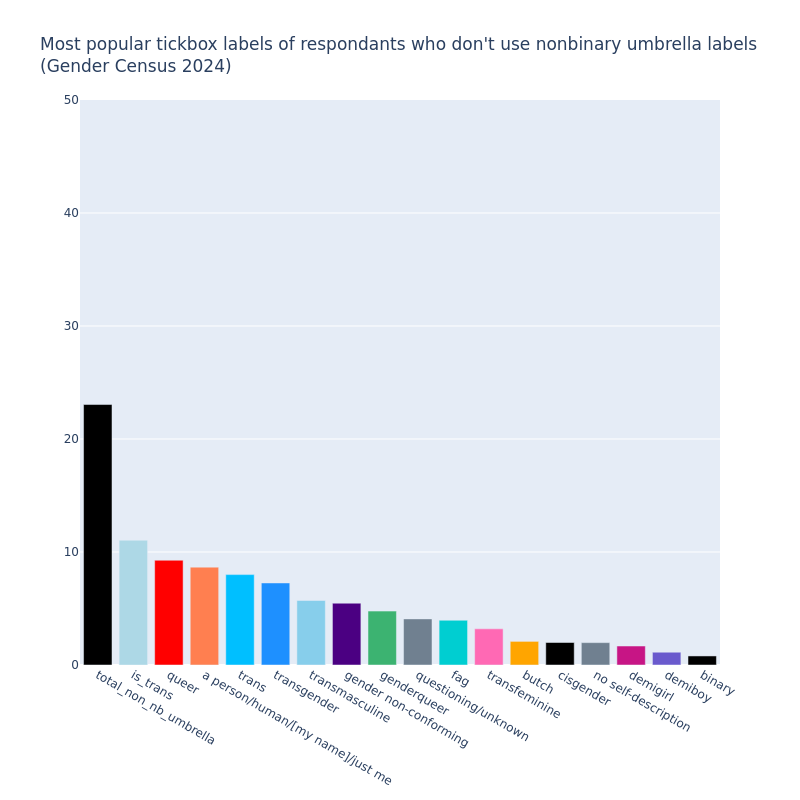
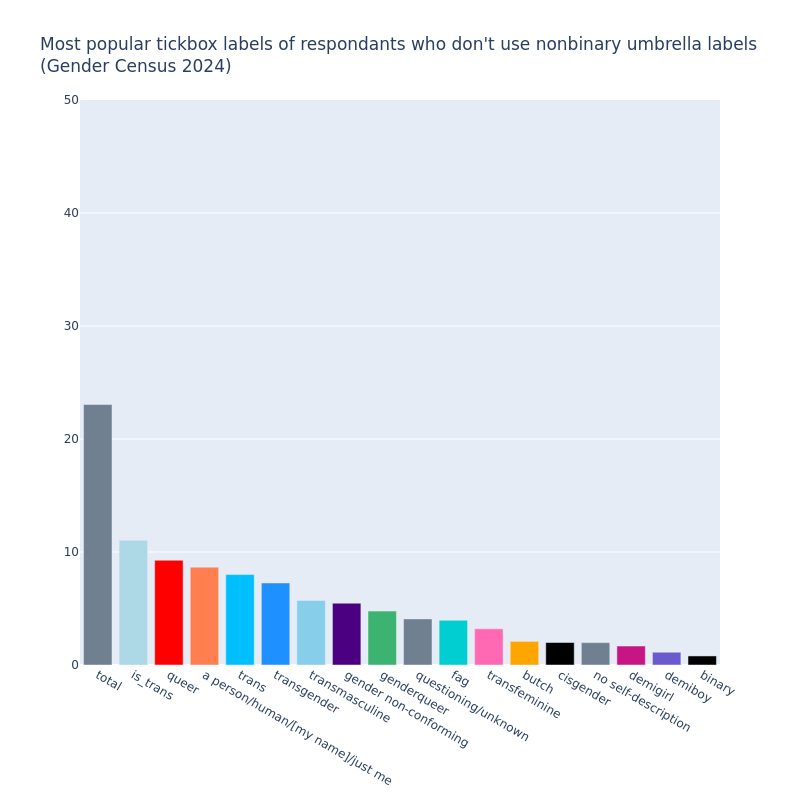
add chart for labels used by ppl who use neither trans nor nb labels

diff --git a/visualisation/make_prepped_df.py b/visualisation/make_prepped_df.py
@@ -8,6 +8,7 @@ def count_df(input_df:pd.DataFrame, data_case:str):
     sorted in descending value order, 
     and percentage numbers
     """
+    # TODO: refactor tickbox_trans_direction_labels to shorten to only trans ppl at the beginning instead
     
     new_df = input_df.copy()
 
@@ -16,6 +17,10 @@ def count_df(input_df:pd.DataFrame, data_case:str):
         new_df = new_df.where(new_df["is_trans_tickbox"] != "Yes").dropna(how="all")
     elif data_case == "tickbox_non_nb": # isolating only non-nb-umbrella respondants
         new_df = new_df.where(new_df["is_nb_umbrella_tickbox"] != "Yes").dropna(how="all")
+    elif data_case == "tickbox_non_nb_trans": # isolating only neither nb nor trans respondants
+        new_df = new_df.where(
+            (new_df["is_nb_umbrella_tickbox"] != "Yes") & (new_df["is_trans_tickbox"] != "Yes")
+        ).dropna(how="all")
     
     new_series = new_df.count() # this becomes a series
     
@@ -190,6 +195,21 @@ def count_df(input_df:pd.DataFrame, data_case:str):
 
             "is_trans_tickbox",
         ]
+    elif data_case == "tickbox_non_nb_trans":
+        get_list = [ # everything other than nb umbrella labels we've excluded already
+            "a person/human/[my name]/just me_tickbox",
+            "binary_tickbox",
+            "butch_tickbox",
+            "cisgender_tickbox",
+            "demiboy_tickbox",
+            "demigirl_tickbox",
+            "fag_tickbox",
+            "gender non-conforming_tickbox",
+            "genderqueer_tickbox",
+            "queer_tickbox",
+            "questioning/unknown_tickbox",
+            "no self-description_tickbox",
+        ]
 
     new_series = new_series.get(get_list)
 
@@ -232,11 +252,8 @@ def count_df(input_df:pd.DataFrame, data_case:str):
         new_series["is_not_nb_tickbox"] = len(new_df) - new_series["is_nb_tickbox"]
     elif data_case == "tickbox_nb_no_nb_umbrella": # making "is_not_nb_umbrella" value
         new_series["is_not_nb_umbrella_tickbox"] = len(new_df) - new_series["is_nb_umbrella_tickbox"]
-    elif data_case == "tickbox_non_trans": # making "total_non_trans" value
-        new_series["total_non_trans_tickbox"] = len(new_df)
-    elif data_case == "tickbox_non_nb": # making "total_non_nb_umbrella" value
-        new_series["total_non_nb_umbrella_tickbox"] = len(new_df)
-
+    elif data_case in ["tickbox_non_trans","tickbox_non_nb","tickbox_non_nb_trans"]: # making "total" value
+        new_series["total"] = len(new_df)
 
     if data_case == "tickbox_trans_direction_labels":
         total_no = new_series["is_trans_tickbox"] # total number of trans people only
@@ -245,7 +262,7 @@ def count_df(input_df:pd.DataFrame, data_case:str):
 
     new_series = new_series.apply(lambda x: round((x/total_no)*100, 2))
 
-    # removing total column again after calculating %
+    # removing total column again after calculating % 
     if data_case == "tickbox_trans_direction_labels":
         new_series.pop("is_trans_tickbox")
 

diff --git a/visualisation/make_bar_charts.py b/visualisation/make_bar_charts.py
@@ -17,6 +17,7 @@ def make_simple_bar(input_srs:pd.Series, data_case:str):
     - "tickbox_nb_labels"
     - "tickbox_non_trans"
     - "tickbox_non_nb"
+    - "tickbox_non_nb_trans"
     """
 
     # making colours
@@ -41,9 +42,10 @@ def make_simple_bar(input_srs:pd.Series, data_case:str):
     elif data_case in [ # removing _tickbox ending
         "tickbox_label_total", 
         "tickbox_non_trans", 
-        "tickbox_non_nb"
+        "tickbox_non_nb",
+        "tickbox_non_nb_trans",
     ]:
-        labels = [column[:-8] for column in input_srs.index]
+        labels = [column[:-8] if "tickbox" in column else column for column in input_srs.index]
     else:
         labels = input_srs.index
     
@@ -81,6 +83,9 @@ def make_simple_bar(input_srs:pd.Series, data_case:str):
         title = f"Most popular tickbox labels of non-trans respondants {suffix}"
     elif data_case == "tickbox_non_nb":
         title = f"Most popular tickbox labels of respondants who don't use nonbinary umbrella labels <br>{suffix}"
+    elif data_case == "tickbox_non_nb_trans":
+        title = f"Most popular tickbox labels of respondants who use neither trans nor nonbinary labels <br>{suffix}"
+
 
     fig.update_yaxes(range=range)
     fig.update_layout(

diff --git a/visualisation/make_label_tickbox_charts.py b/visualisation/make_label_tickbox_charts.py
@@ -87,3 +87,14 @@ def make_label_tickbox_charts(input_df:pd.DataFrame):
         height=800,
         width=800,
     )
+
+    # of non-nb & non-trans users what are their remaining top labels? (bars)
+    non_nb_trans_df = count_df(tickbox_df, "tickbox_non_nb_trans")
+    non_nb_trans_fig = make_simple_bar(non_nb_trans_df, "tickbox_non_nb_trans")
+    non_nb_trans_fig.write_image(
+        f"{folder}non_nb_non_trans_users.png",
+        height=800,
+        width=800,
+    )
+
+    # how many respondants are trans/not nb, nb/not trans, trans & nb, neither? (pie)
